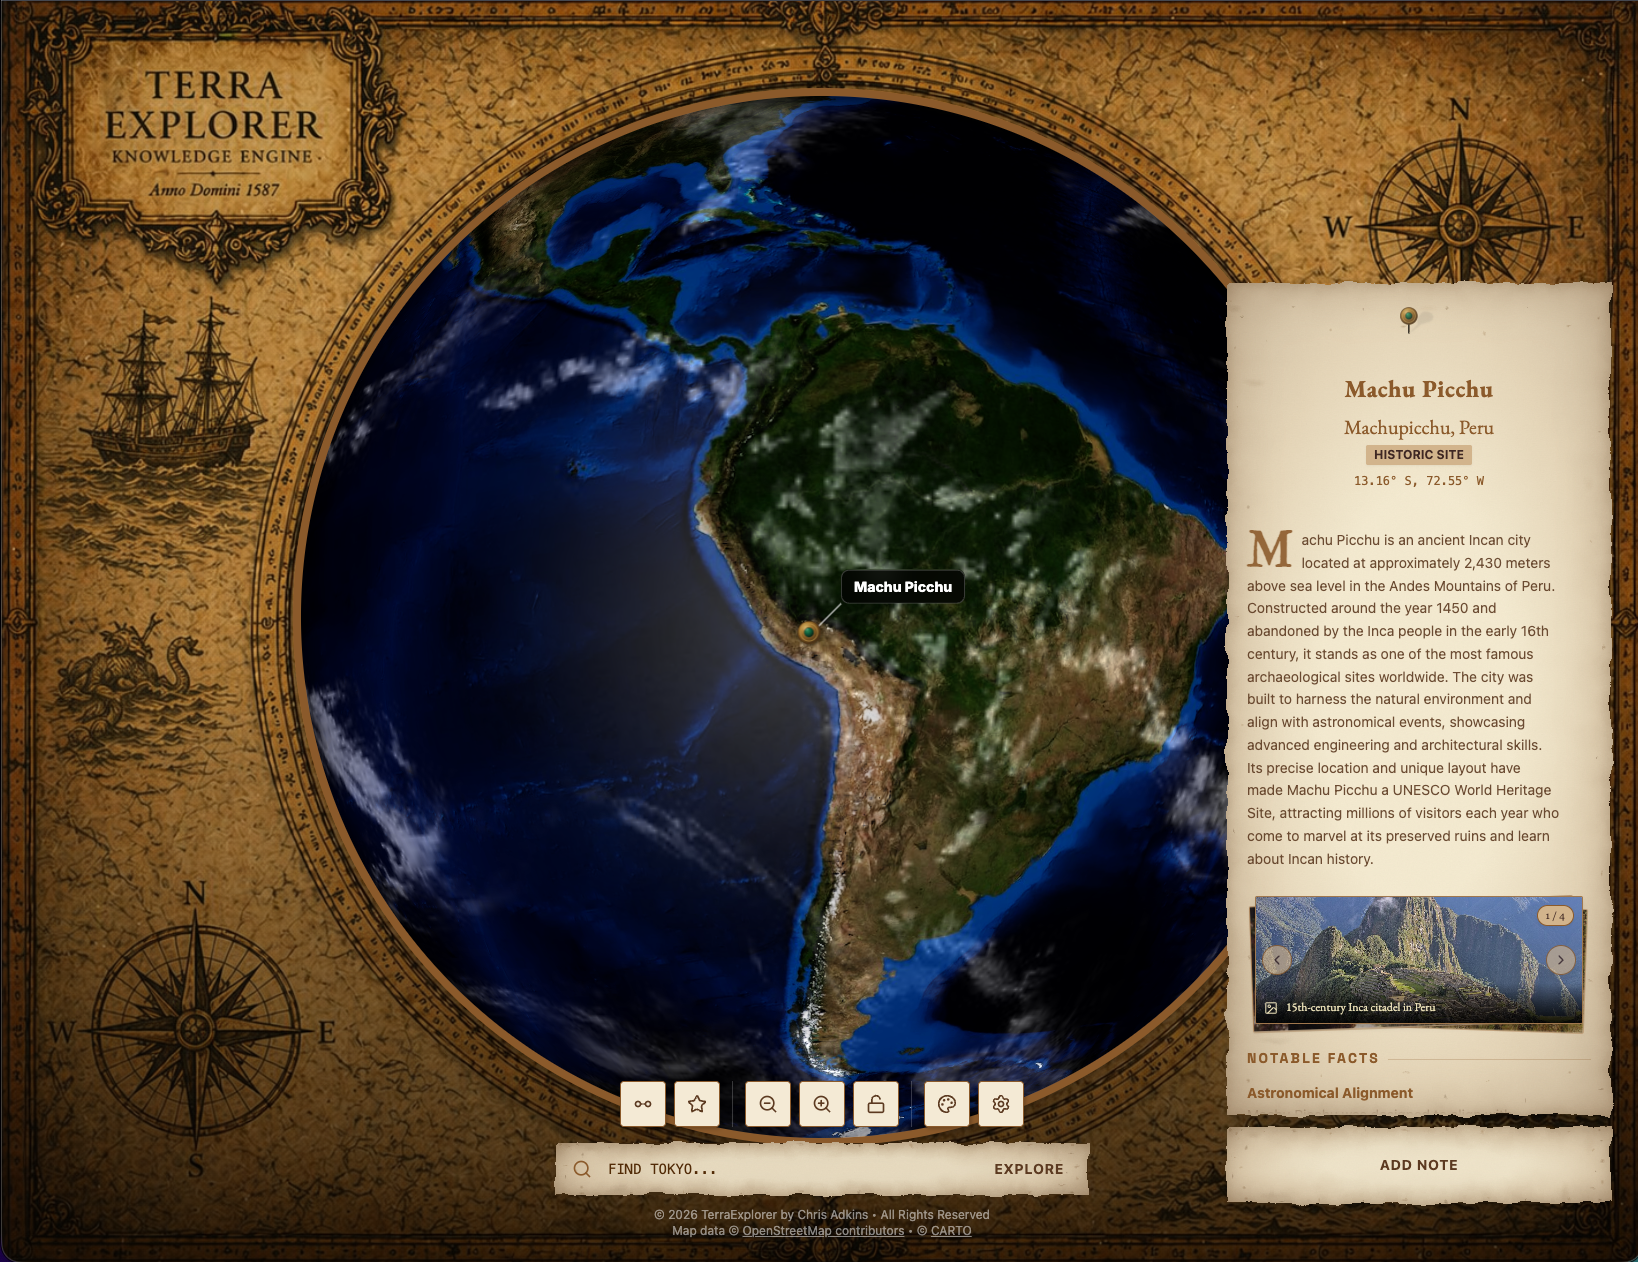
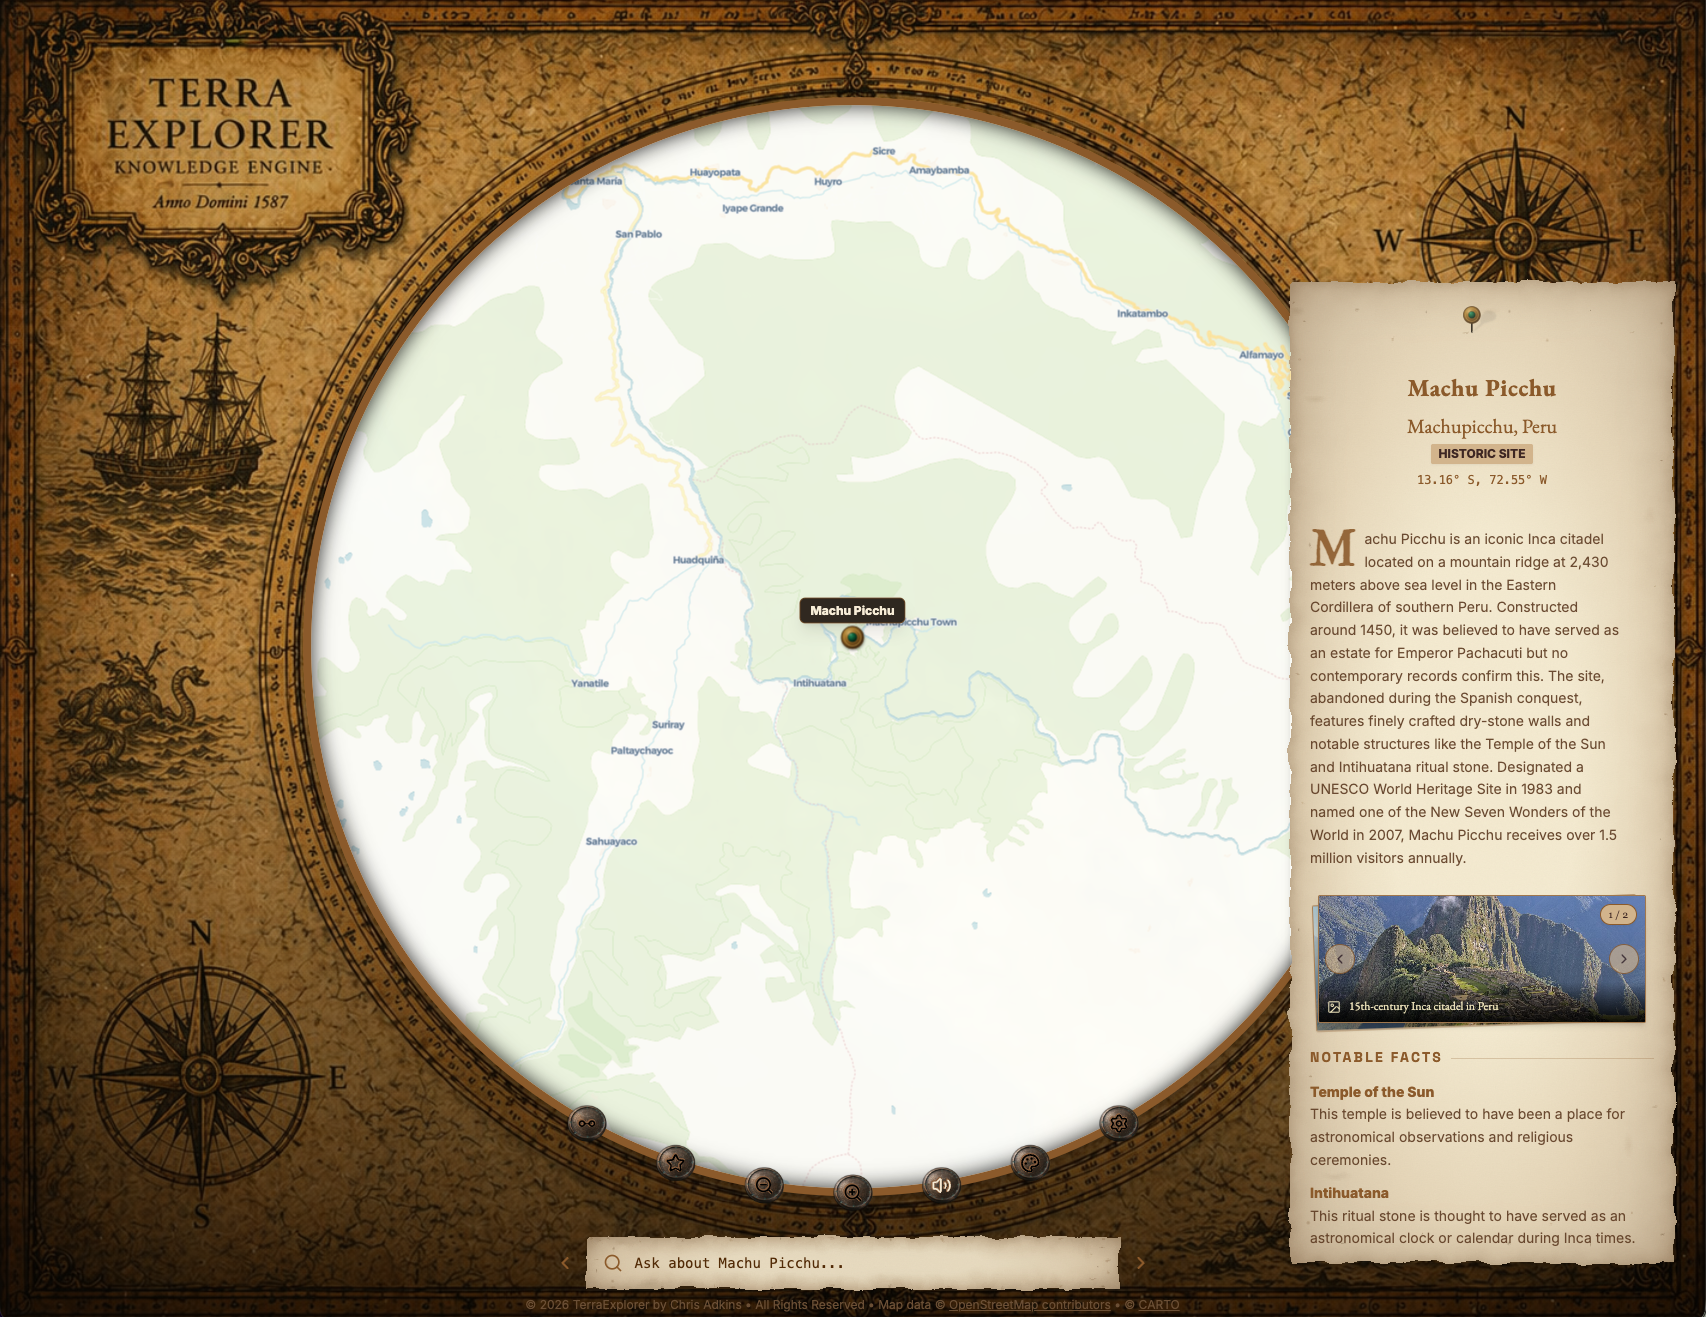
Update README imagery

diff --git a/README.md b/README.md
@@ -1,5 +1,5 @@
 <div align="center">
-  <img src="assets/multi-waypoint-results.png"
+  <img src="assets/multi-waypoint-results-v1.png"
        alt="TerraExplorer Multi-Waypoint Route Results"
        width="900">
 </div>
